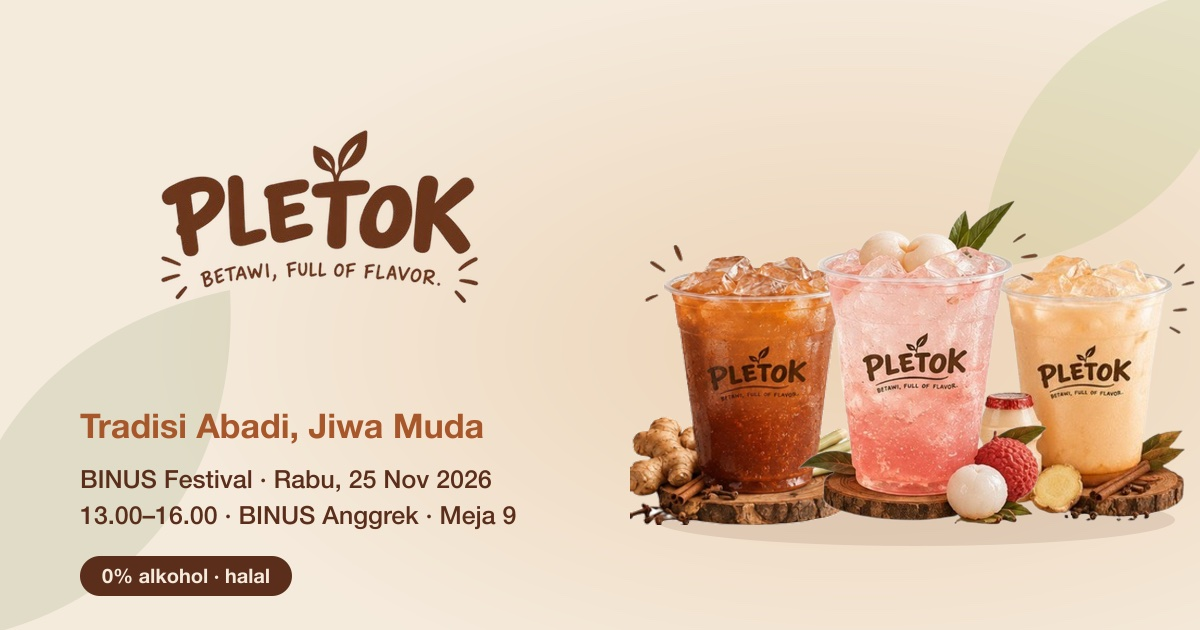
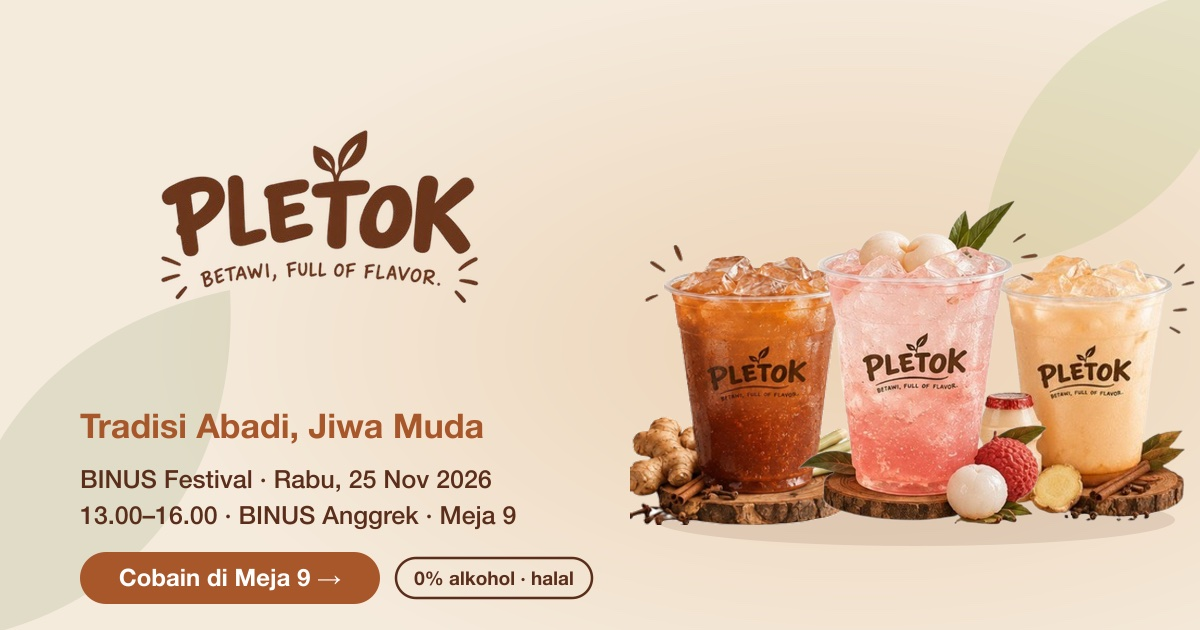
fixing SEO by opengraph

Changed region(s): [[0.0617, 0.8746, 0.4933, 0.9651]]

diff --git a/index.html b/index.html
@@ -6,7 +6,7 @@
 
     <!-- primary -->
     <title>Pletok — Bir Pletok Modern Khas Betawi · BINUS Festival 2026</title>
-    <meta name="description" content="Pletok: bir pletok khas Betawi, 0% alkohol & halal, diracik ulang buat anak muda. Original 18K, Lychee Sparkling 20K, Yakult 20K. BINUS Festival, Rabu 25 Nov 2026, 13.00–16.00, Balkon Lt. 2 BINUS Anggrek, Meja 9." />
+    <meta name="description" content="Bir pletok khas Betawi, 0% alkohol & halal. Original, Lychee Sparkling & Yakult mulai 18K — BINUS Festival, 25 Nov 2026, BINUS Anggrek Meja 9." />
     <meta name="keywords" content="Pletok, bir pletok, minuman Betawi, minuman rempah, minuman halal, non-alkohol, jamu modern, BINUS Festival, BINUS Anggrek, Jakarta" />
     <meta name="author" content="Tim Pletok" />
     <meta name="robots" content="index, follow, max-image-preview:large" />
@@ -29,11 +29,11 @@
     <meta property="og:locale" content="id_ID" />
     <meta property="og:url" content="%SITE_URL%/" />
     <meta property="og:title" content="Pletok — Betawi, Full of Flavor" />
-    <meta property="og:description" content="Bir pletok modern, 0% alkohol & halal. Mampir ke Meja 9, BINUS Festival — Rabu 25 Nov 2026, 13.00–16.00 di Balkon Lt. 2 BINUS Anggrek." />
+    <meta property="og:description" content="Bir pletok modern, 0% alkohol & halal. Cobain di Meja 9 — BINUS Festival, Rabu 25 Nov 2026, 13.00–16.00." />
     <meta property="og:image" content="%SITE_URL%/og-image.jpg" />
     <meta property="og:image:width" content="1200" />
     <meta property="og:image:height" content="630" />
-    <meta property="og:image:alt" content="Logo Pletok dan tiga gelas: Original, Lychee Sparkling, Yakult" />
+    <meta property="og:image:alt" content="Pletok: tiga gelas bir pletok — Original, Lychee Sparkling, Yakult. Cobain di Meja 9, BINUS Festival." />
 
     <!-- X / Twitter -->
     <meta name="twitter:card" content="summary_large_image" />
